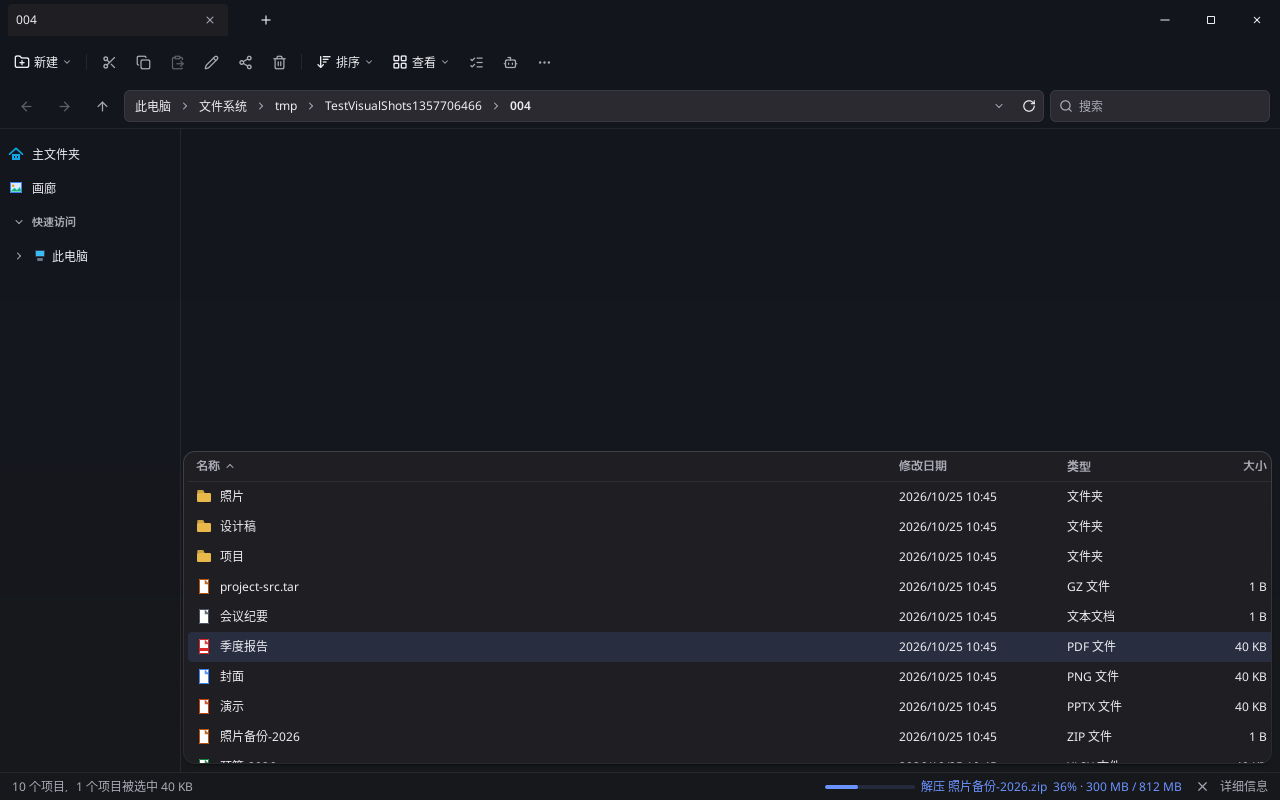
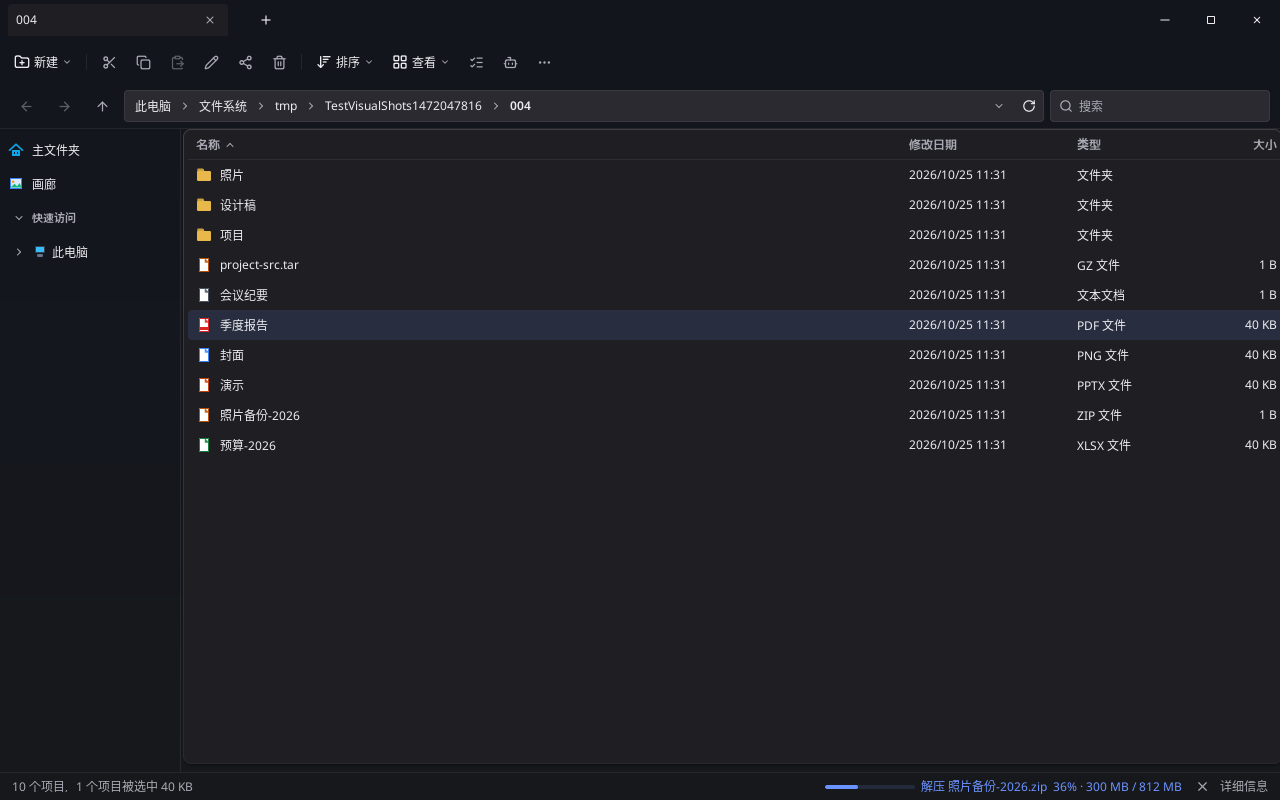
VISUAL2：小圆角令牌、默认 v2、内容卡铺满与纵向对齐
- 圆角：卡 8、行/按钮/输入/主题 4（对话框加倍 8）
- defaultSettings.VisualStyle=v2，经典仍可切换
- 内容卡改 Margin 铺满 Split（修复缩在下方）
- 预览分隔条命中区移入窗格内；侧栏/搜索/任务卡纵向居中
- 规格 11、UI.md、TASK.md；重渲 VISUAL2 截图

diff --git a/tasks_view.go b/tasks_view.go
@@ -186,7 +186,11 @@ func (a *App) taskCard(c *ui.Context, s archiveTaskSnap, gauge bool) {
 		tone = toneError
 	}
 	_, icon := archiveSnapTone(s)
-	card := ui.Row(c).FillWidth().MinWidth(0).Gap(14).Padding(12, 14).Radius(10).AlignItems(ui.Start)
+	cardR := float32(10)
+	if visualV2 {
+		cardR = v2CardRadius
+	}
+	card := ui.Row(c).FillWidth().MinWidth(0).Gap(14).Padding(12, 14).Radius(cardR).AlignItems(ui.Start)
 	if visualV2 {
 		v2Raised(card.Background(colorSurface()))
 	} else {
@@ -208,10 +212,12 @@ func (a *App) taskCard(c *ui.Context, s archiveTaskSnap, gauge bool) {
 			ui.Text(c.Key("nums"), taskNumbers(s)).FontSize(12.5).TextColor(colorMuted()).SingleLine().Ellipsis("…").MinWidth(0)
 			if s.Cur != "" {
 				ui.Row(c.Key("cur")).FillWidth().MinWidth(0).Gap(8).AlignItems(ui.Center).Children(func() {
-					a.fileIcon(c, Entry{Name: filepath.Base(s.Cur), Ext: lowerExt(s.Cur)}, 16)
+					ui.Box(c).Size(16, 16).Shrink(0).Center().Children(func() {
+						a.fileIcon(c, Entry{Name: filepath.Base(s.Cur), Ext: lowerExt(s.Cur)}, 16)
+					})
 					name := ui.Text(c.Key("n"), s.Cur).FontSize(12.5).TextColor(colorText()).SingleLine().Ellipsis("…").MinWidth(0).Grow(1)
 					components.Tooltip(c, name, s.Cur)
-					ui.Box(c.Key("b")).Width(160).Shrink(0).Children(func() {
+					ui.Box(c.Key("b")).Width(160).Height(5).Shrink(0).AlignSelf(ui.Center).Children(func() {
 						paintProgressBar(c, "tv-cur-"+s.ID, s.CurFrac(), toneRunning, 5)
 					})
 					sz := formatBytes(s.CurDone)
@@ -234,7 +240,9 @@ func (a *App) taskCard(c *ui.Context, s archiveTaskSnap, gauge bool) {
 
 func (a *App) taskCardHead(c *ui.Context, s archiveTaskSnap, icon *ui.SVG, tone progressTone) {
 	ui.Row(c.Key("head")).FillWidth().MinWidth(0).Gap(8).AlignItems(ui.Center).Children(func() {
-		components.Icon(c, icon).Size(18, 18).TextColor(tone.color(false)).Shrink(0)
+		ui.Box(c).Size(18, 18).Shrink(0).Center().Children(func() {
+			components.Icon(c, icon).Size(18, 18).TextColor(tone.color(false))
+		})
 		title := s.Title
 		if title == "" {
 			title = archiveVerb(s.Kind) + " " + s.Name

diff --git a/visual.go b/visual.go
@@ -13,9 +13,10 @@ import "github.com/egoist/mygo/ui"
 var visualV2 bool
 
 const (
-	v2CardRadius = 12
-	v2RowRadius  = 6
-	v2Gutter     = 8 // wash around the content card
+	v2CardRadius  = 8
+	v2RowRadius   = 4
+	v2InputRadius = 4 // address / search fields
+	v2Gutter      = 8 // wash around the content card
 )
 
 // syncVisual re-resolves the tokens when 视觉风格 changed.
@@ -89,4 +90,22 @@ func v2Chosen(e ui.Element) ui.Element {
 // v2Card styles e as the content card.
 func v2Card(e ui.Element) ui.Element {
 	return v2Raised(e.Radius(v2CardRadius).Clip().Background(tokContent))
+}
+
+// fieldRadius is the address and search field corner radius: v2's tighter
+// input token, classic's 6.
+func fieldRadius() float32 {
+	if visualV2 {
+		return v2InputRadius
+	}
+	return 6
+}
+
+// sidebarListPad is the top inset of the nav list. v2 matches the content
+// card's flush top so the first sidebar row lines up with the details header.
+func sidebarListPad() float32 {
+	if visualV2 {
+		return 4
+	}
+	return 8
 }

diff --git a/statestore.go b/statestore.go
@@ -78,7 +78,7 @@ type appSettings struct {
 	// TreeNoExpand turns off 展开到打开的文件夹: navigating leaves the
 	// sidebar tree as the user opened it (Explorer's option off).
 	TreeNoExpand bool `json:"treeNoExpand,omitempty"`
-	// VisualStyle is 视觉风格: "" 经典, "v2" (visual.go).
+	// VisualStyle is 视觉风格: "v2" (default for fresh installs), "" 经典 (visual.go).
 	VisualStyle    string `json:"visualStyle,omitempty"`
 	ShowExt        bool   `json:"showExt"`
 	Compact        bool   `json:"compact"`
@@ -141,7 +141,7 @@ func (s appSettings) networkWarmup() bool { return !s.NoNetworkWarmup }
 // newAppWithStore in main.go: the system's appearance, extensions shown,
 // everything else off, and the details view.
 func defaultSettings() *appSettings {
-	return &appSettings{ShowExt: true, Mode: int(ViewDetails)}
+	return &appSettings{ShowExt: true, Mode: int(ViewDetails), VisualStyle: "v2"}
 }
 
 // trashRecord maps a file in ~/.Trash back to the path it was deleted from.

diff --git a/preview_pane.go b/preview_pane.go
@@ -284,7 +284,9 @@ func (a *App) previewResizeHandle(c *ui.Context) {
 	// file list and 3 into the pane, and goes no further: a wider target
 	// would take the preview's own clicks and scrolling, and would put the
 	// 1px line it draws (the middle of its box) wherever that width ends.
-	grip := ui.Box(c).Absolute().Top(0).Bottom(0).Left(-3).Width(7).
+	// Keep the grip inside the pane (Left 0): v2's content-card Clip would
+	// drop hits on an Absolute strip that overhangs into the file list.
+	grip := ui.Box(c).Absolute().Top(0).Bottom(0).Left(0).Width(6).
 		Cursor(ui.CursorResizeEW)
 	if dx, _, ok := grip.Dragged(); ok && dx != 0 {
 		a.previewW = clampPreviewWidth(a.previewW - dx)
@@ -293,7 +295,7 @@ func (a *App) previewResizeHandle(c *ui.Context) {
 		if !grip.Hovered() && !grip.Dragging() {
 			return
 		}
-		p.Fill(ui.Rect{X: r.X + (r.W-1)/2, Y: r.Y, W: 1, H: r.H}, colorAccent(), 0)
+		p.Fill(ui.Rect{X: r.X, Y: r.Y, W: 1, H: r.H}, colorAccent(), 0)
 	})
 }
 

diff --git a/chrome_nav.go b/chrome_nav.go
@@ -50,11 +50,14 @@ func (a *App) refreshButton(c *ui.Context) {
 // string: SearchField hard-codes its own and ignores Placeholder.
 func (a *App) searchField(c *ui.Context) {
 	field := ui.Row(c.Key("folder-search")).Width(220).Height(32).Shrink(0).
-		Padding(0, 8).Gap(6).Radius(6).AlignItems(ui.Center).
+		Padding(0, 8).Gap(6).Radius(fieldRadius()).AlignItems(ui.Center).
 		Background(colorAddress()).Border(1, colorDivider()).
 		Label("搜索")
 	field.Children(func() {
-		components.Icon(c, lucide.Search).Size(14, 14).TextColor(colorMuted())
+		// Match the input's 24 DIP height so the glyph shares its vertical center.
+		ui.Box(c).Size(14, 24).Shrink(0).Center().Children(func() {
+			components.Icon(c, lucide.Search).Size(14, 14).TextColor(colorMuted())
+		})
 		in := ui.TextInputBase(c, &a.cur().query).Grow(1).MinWidth(0).Height(24).
 			FontSize(12).Placeholder("搜索")
 		a.fieldFocused = in.FocusWithin()

diff --git a/sidebar.go b/sidebar.go
@@ -130,7 +130,7 @@ func (a *App) sidebar(c *ui.Context) {
 		a.navTree.list.Key = func(i int) any { return rows[i].key }
 		ui.List(c, &a.navTree.list, len(rows), func(i int) {
 			a.navPaneRow(c, rows[i])
-		}).Grow(1).FillWidth().MinHeight(0).Padding(8, 0, 12, 0)
+		}).Grow(1).FillWidth().MinHeight(0).Padding(sidebarListPad(), 0, 12, 0)
 		// The current folder's row has its place in the list by now: show it if
 		// the list has it out of sight.
 		a.navTreeReveal()
@@ -556,7 +556,7 @@ func navTwistSlot(c *ui.Context) {
 // navRowGlyph is a row's 16px icon: a place or volume glyph by kind, and the
 // folder glyph for a folder of the tree.
 func (a *App) navRowGlyph(c *ui.Context, r navRow) {
-	glyph := ui.Box(c).Size(16, 16).Shrink(0)
+	glyph := ui.Box(c).Size(16, 16).Shrink(0).Center()
 	glyph.Children(func() {
 		if r.file {
 			a.fileIcon(c, Entry{Name: r.label, Path: r.path}, 16)

diff --git a/navtree_test.go b/navtree_test.go
@@ -136,8 +136,13 @@ func TestNavTreeRowFollowsTheWindow(t *testing.T) {
 	if !ok {
 		t.Fatalf("the tree does not draw the current folder's row: %v", tt.Texts())
 	}
-	if n := colorPixels(tt.Image(), ui.Rect{X: 8, Y: chev.Y, W: 100, H: chev.H}, colorSelected()); n == 0 {
-		t.Fatalf("the row at %v is not marked selected", chev)
+	sel := colorSelected()
+	if visualV2 {
+		// v2 paints the chosen row as a white chip on the wash, not tokSel.
+		sel = colorContent()
+	}
+	if n := colorPixels(tt.Image(), ui.Rect{X: 8, Y: chev.Y, W: 100, H: chev.H}, sel); n == 0 {
+		t.Fatalf("the row at %v is not marked selected (v2=%v)", chev, visualV2)
 	}
 	// Clicking a tree row navigates there: the folder beside the current one,
 	// scrolled into sight first, since the reveal scrolls only as far as the

diff --git a/theme.go b/theme.go
@@ -186,11 +186,15 @@ func appTheme(c *ui.Context) *ui.Theme {
 		Focus:          tokAccent.Alpha(0.6),
 		Scrollbar:      tokText.Alpha(0.32),
 		ScrollbarWidth: 6,
-		// Radius 6 rounds a dialog (components.Dialog doubles it) to 12, and
-		// Spacing 4 is the unit the components size their paddings with.
+		// Radius 6 rounds a dialog (components.Dialog doubles it) to 12;
+		// v2 uses 4 so dialogs land at 8. Spacing 4 is the unit the
+		// components size their paddings with.
 		Radius:   6,
 		Spacing:  4,
 		FontSize: 12,
+	}
+	if visualV2 {
+		t.Radius = v2RowRadius
 	}
 	// The adjustments MyGo's own themes make for the desktop's preferences,
 	// so a text scale or a higher contrast setting still applies.

diff --git a/main.go b/main.go
@@ -397,11 +397,10 @@ func (a *App) contentPanes(c *ui.Context) {
 	}
 	row := ui.Row(c).FillWidth().FillHeight().MinHeight(0).AlignItems(ui.Stretch)
 	if visualV2 {
-		// v2: the file area, preview and assistant are one raised card on
-		// the wash.
-		ui.Box(c.Key("v2-gutter")).FillWidth().FillHeight().MinHeight(0).Padding(0, v2Gutter, v2Gutter, 2).Children(func() {
-			a.contentRow(c, v2Card(ui.Row(c).Fill().MinWidth(0).MinHeight(0).AlignItems(ui.Stretch)))
-		})
+		// v2: keep classic's FillHeight Row (cross-axis % height in the
+		// Split Column), gutter via Margin, card chrome on that same row.
+		row.Margin(0, v2Gutter, v2Gutter, 2)
+		a.contentRow(c, v2Card(row))
 		return
 	}
 	a.contentRow(c, row)

diff --git a/keynav_ui_test.go b/keynav_ui_test.go
@@ -88,10 +88,12 @@ func TestArrowKeysScrollTheWindow(t *testing.T) {
 	}
 
 	// A screenful down moves the selection and keeps it in view.
+	page := a.navPage()
+	wantName := fmt.Sprintf("f%03d.txt", page)
 	tt.Key(0, ui.KeyPageDown)
-	navIs(t, a, "Page Down", "f021.txt")
+	navIs(t, a, "Page Down", wantName)
 	first, last = visible()
-	if row := entryIndexOf(a.visibleEntries(), filepath.Join(dir, "f021.txt")); row < first || row > last {
+	if row := entryIndexOf(a.visibleEntries(), filepath.Join(dir, wantName)); row < first || row > last {
 		t.Fatalf("the moved-to row %d is not in view (%d..%d)", row, first, last)
 	}
 }

diff --git a/previewpane_test.go b/previewpane_test.go
@@ -14,6 +14,10 @@ import (
 func previewApp(t *testing.T) (*App, *ui.Tester, float32) {
 	t.Helper()
 	a, tt, _ := keynavWindow(t, 3)
+	// Divider hit geometry is measured in window DIPs against the classic
+	// flush-right pane; pin classic so v2's content-card margin does not
+	// shift the edge under the asserted coordinates.
+	a.applySettings(func(x *appSettings) { x.VisualStyle = "" })
 	a.previewOpen = true
 	// The bare test app starts with no width; the real window starts at 320
 	// (main.go's newAppWithStore).

diff --git a/visual_shot_test.go b/visual_shot_test.go
@@ -14,8 +14,13 @@ import (
 func TestVisualStyleSwitch(t *testing.T) {
 	a, tt := tasksViewFixture(t)
 	t.Cleanup(func() { visualV2 = false; resolveTokens() })
+	// Fresh installs default to v2; pin classic first so the switch is visible.
+	a.applySettings(func(x *appSettings) { x.VisualStyle = "" })
 	tt.Frame()
 	classic := colorAccent()
+	if visualV2 {
+		t.Fatal("classic not applied")
+	}
 	a.applySettings(func(x *appSettings) { x.VisualStyle = "v2" })
 	tt.Frame()
 	if !visualV2 || colorAccent() == classic {
